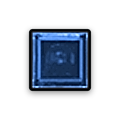
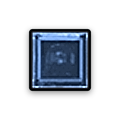
Botones: 25% menos de color (apagado y prendido) [skip ci]
Claude-Session: https://claude.ai/code/session_01LmYTuHAKQSU8qhR6nNkVAi

diff --git a/UI_definitiva/generadores/button_from_ref.py b/UI_definitiva/generadores/button_from_ref.py
@@ -14,6 +14,7 @@ def build(src, body, name, lit):
     x0 += 1; y0 += 1; x1 -= 1; y1 -= 1         # 1 px menos por lado: el borde de la foto trae color del papel
     hsv = rgb_to_hsv(im); sat = hsv[..., 1]
     blue = hsv.copy(); blue[..., 0] = H
+    blue[..., 1] = blue[..., 1]*0.75   # 25% menos de color (apagado y prendido)
     rgb = hsv_to_rgb(blue)
     h, w = im.shape[:2]
     alpha = np.zeros((h, w))
@@ -25,7 +26,7 @@ def build(src, body, name, lit):
         d = np.hypot(dx, dy)
         out_ = ~mask
         alpha[out_] = 0.0
-        rgb[out_] = hsv_to_rgb(np.array([H, 0.78, 0.98]))
+        rgb[out_] = hsv_to_rgb(np.array([H, 0.78*0.75, 0.98]))
     pad = np.zeros((h, w), bool)
     # recorte cuadrado alrededor del cuerpo
     cx, cy = (x0 + x1 + 1)/2.0, (y0 + y1 + 1)/2.0
@@ -55,7 +56,7 @@ def build(src, body, name, lit):
         cross = np.maximum(np.exp(-((xx_g - 60)**2)/(2*8.0**2)), np.exp(-((yy_g - 60)**2)/(2*8.0**2)))   # mas luz saliendo del medio de cada lado (forma de cruz +)
         gl = np.array(Image.fromarray((black*255).astype(np.uint8)).filter(ImageFilter.GaussianBlur(4.5))).astype(float)/255.0*(0.85 + 0.85*cross)*(1 - black)
         gl = np.clip(gl, 0, 0.95)
-        GC = hsv_to_rgb(np.array([H, 0.78, 0.98]))
+        GC = hsv_to_rgb(np.array([H, 0.78*0.75, 0.98]))
         res[..., :3] = res[..., :3]*(1 - gl[..., None]) + GC*gl[..., None]; res[..., 3] = res[..., 3]*(1 - gl) + gl
     Ab = black*(1 - body_a)                    # negro solo donde no hay cuerpo
     BLK = np.array([8, 8, 10])/255.0
